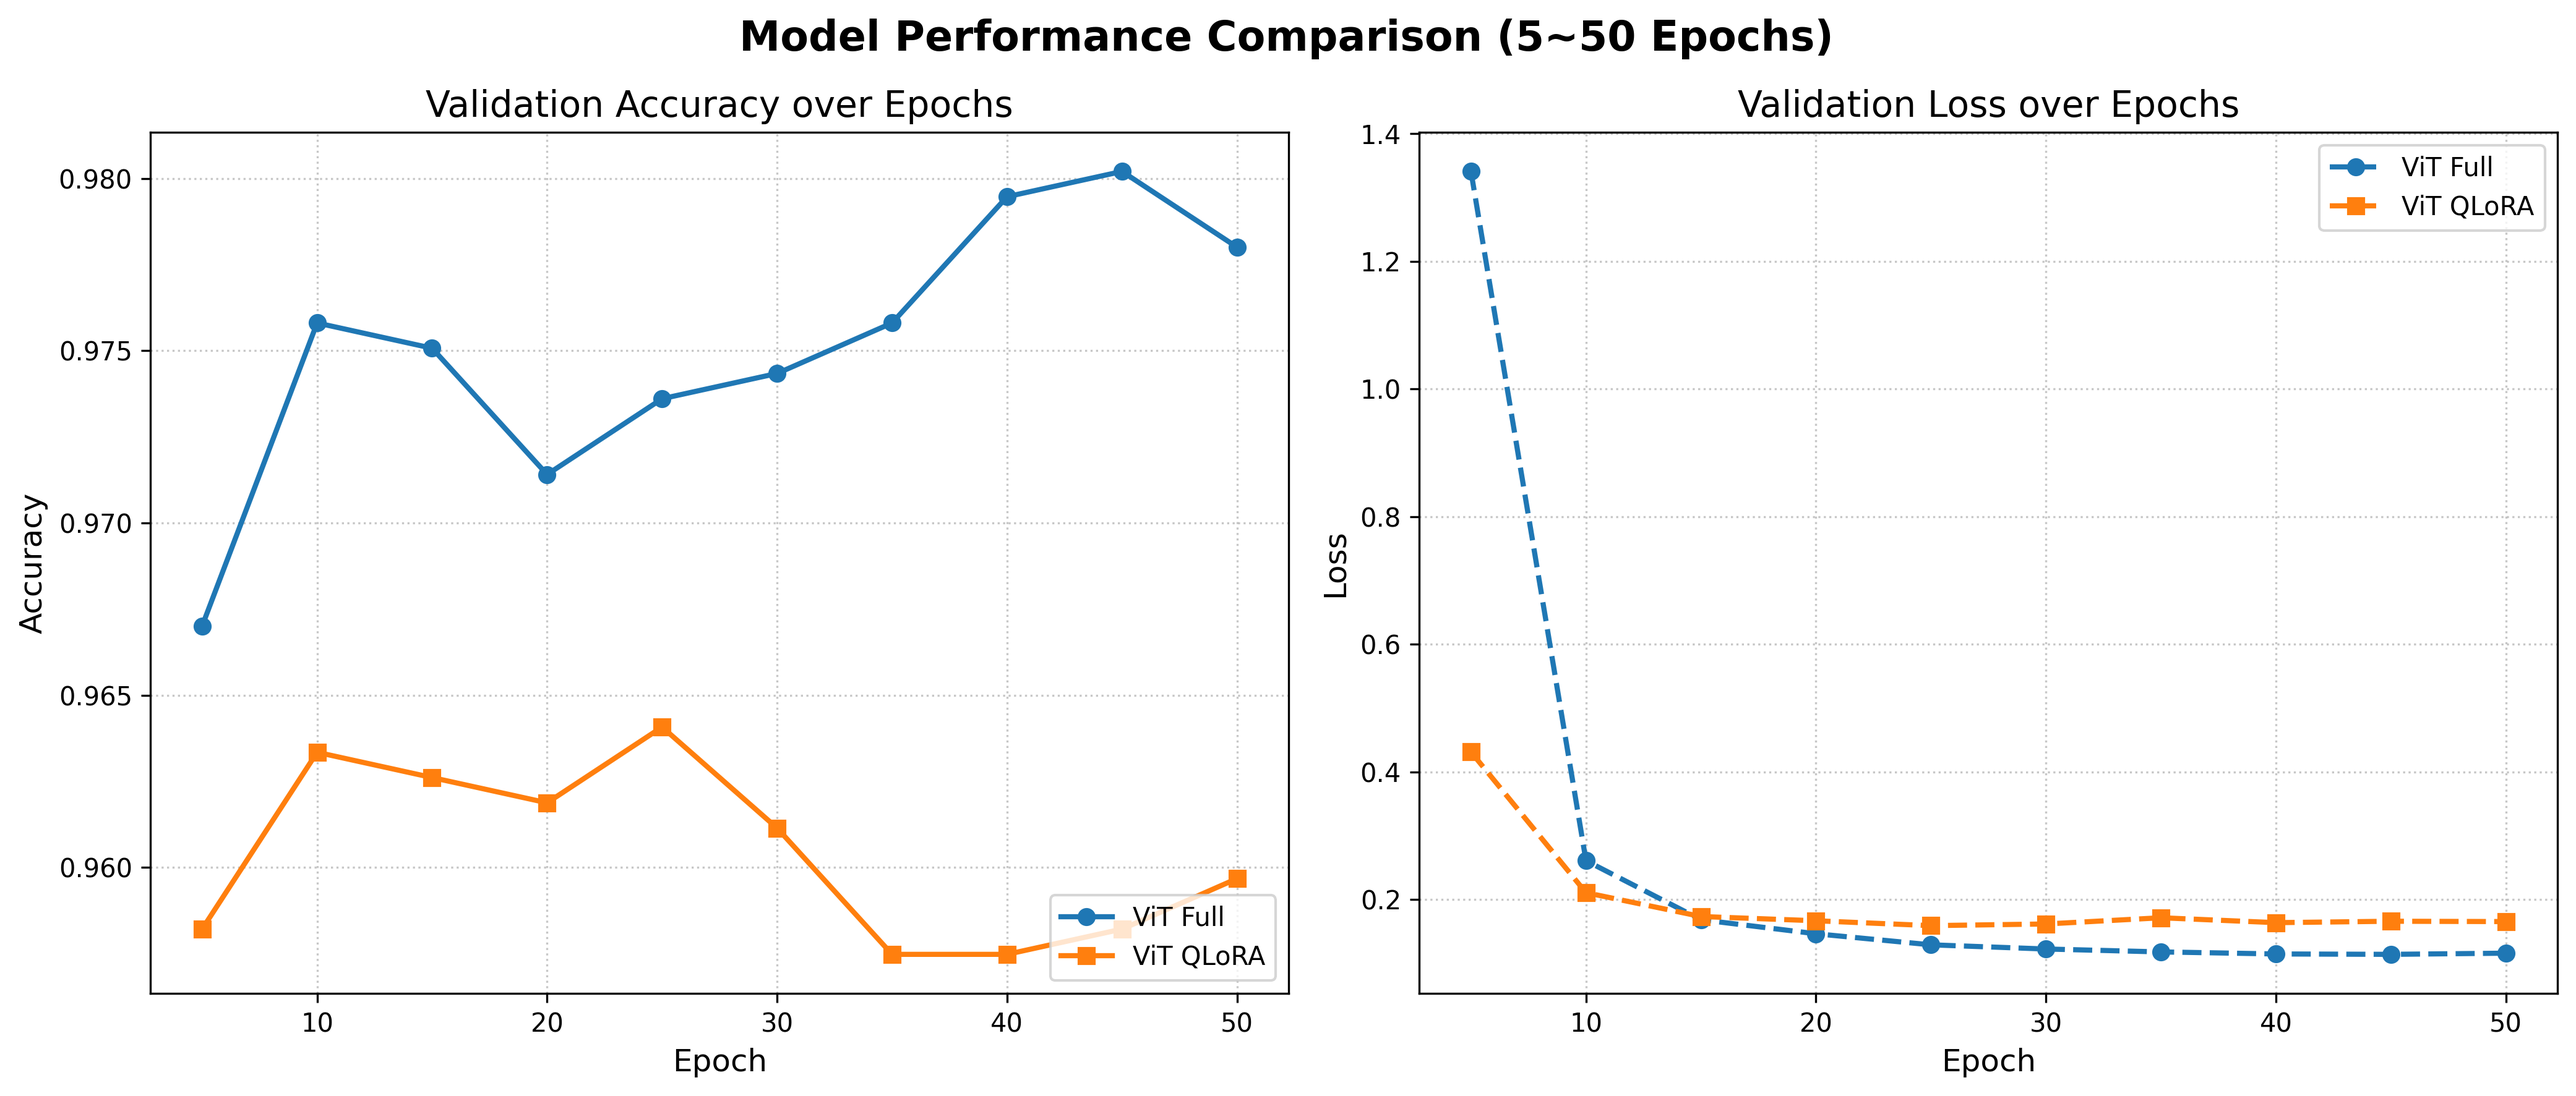
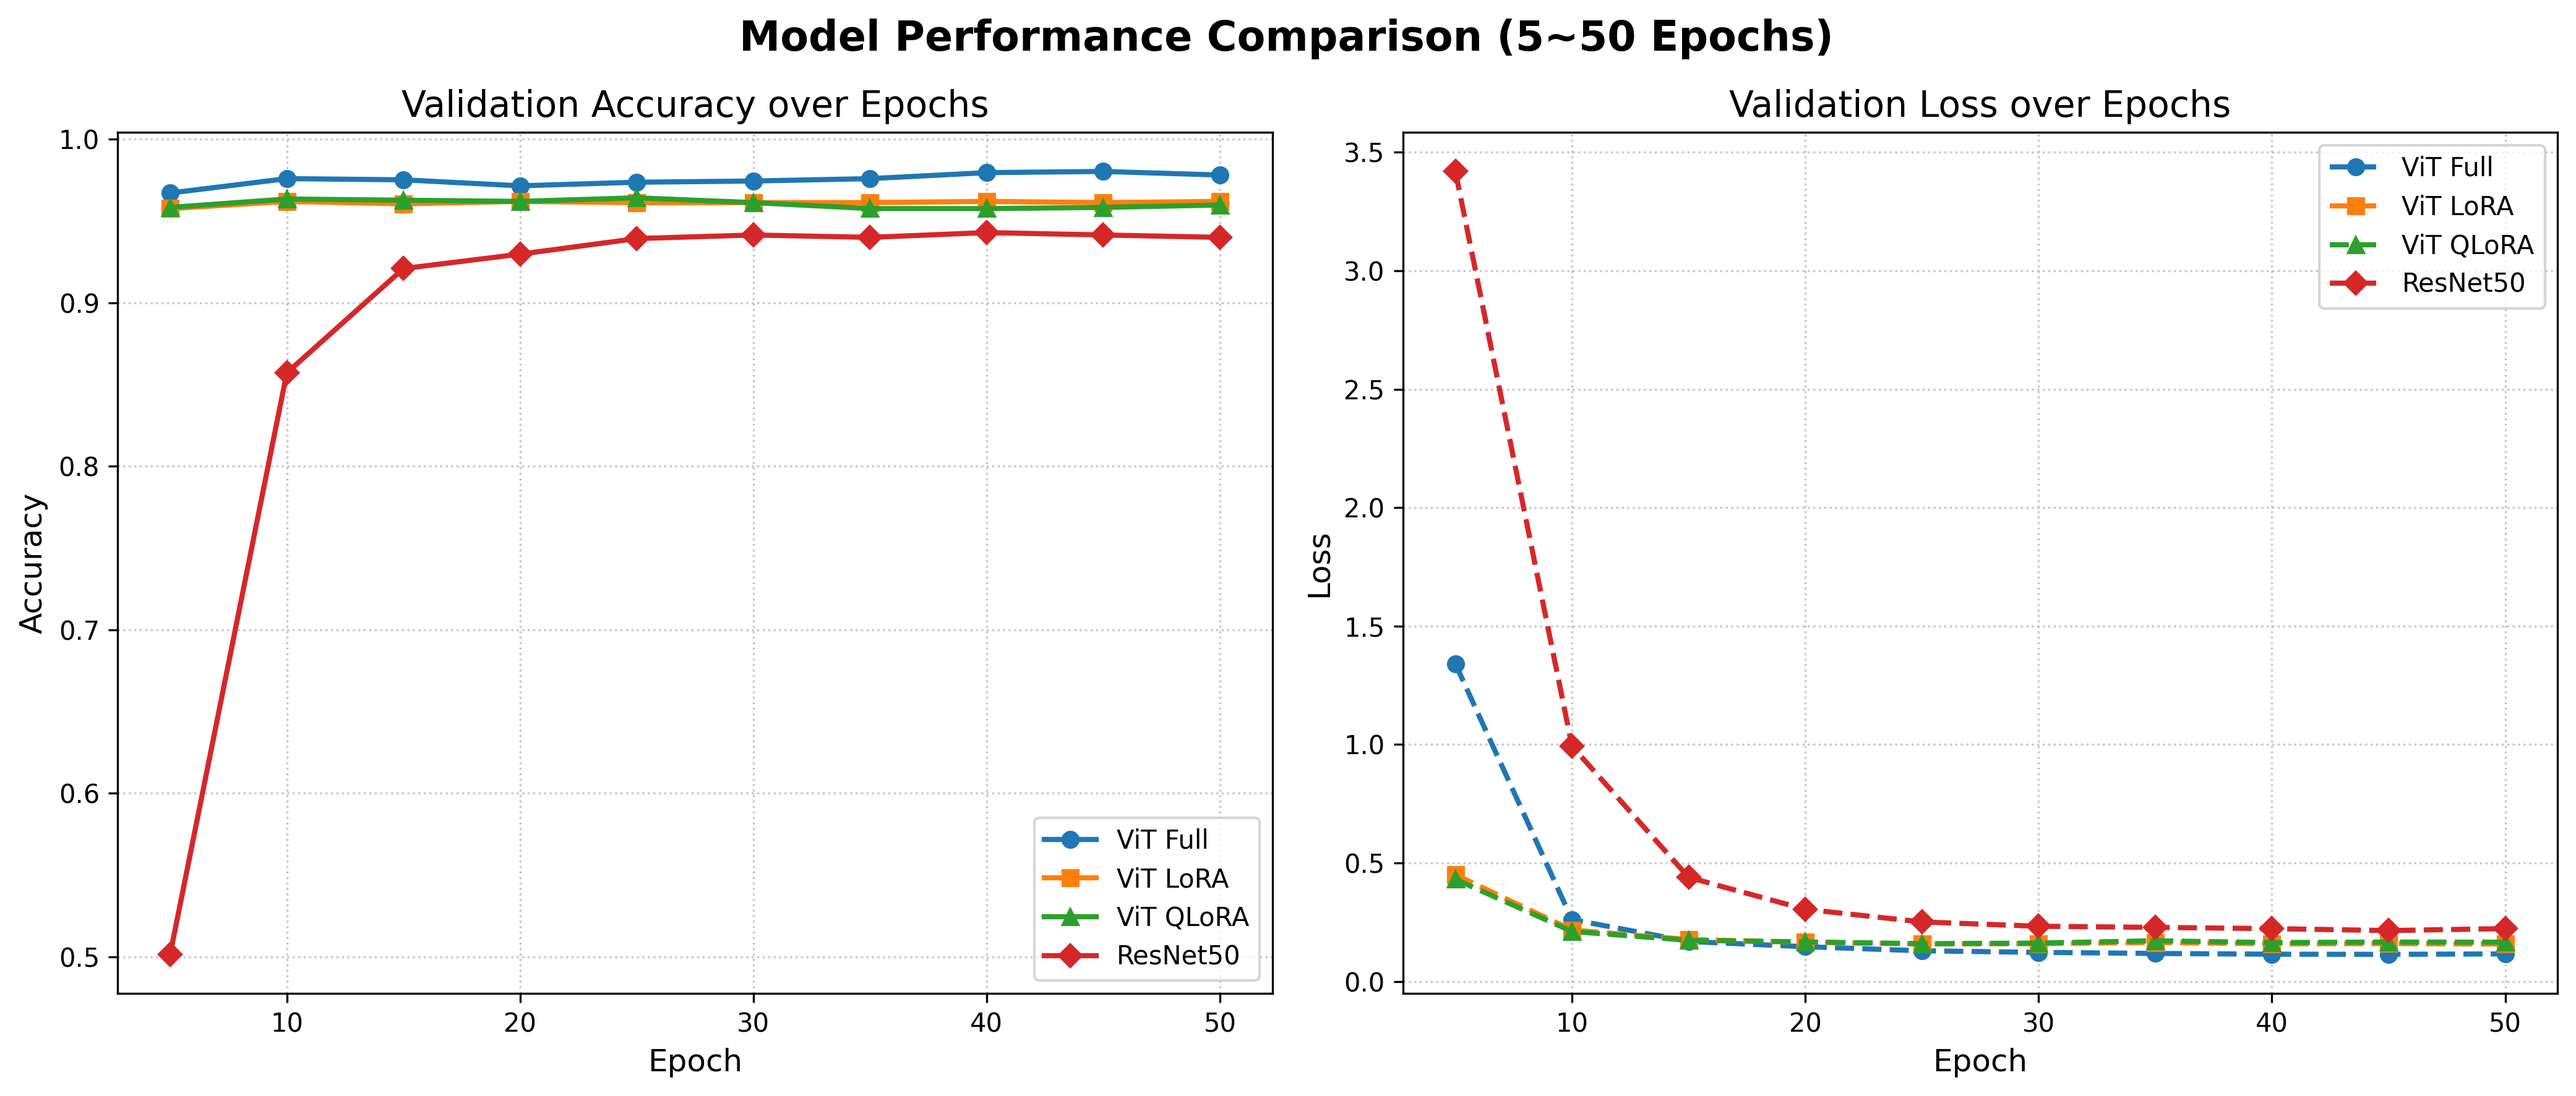
학습 결과를 CSV 파일로 저장, 로그 기록을 통해 성능을 추적

diff --git a/resnet50_finetuning.py b/resnet50_finetuning.py
@@ -1,5 +1,6 @@
 import os
 import torch
+import pandas as pd
 import numpy as np
 import evaluate
 from datasets import load_dataset
@@ -16,7 +17,7 @@ from torchvision.transforms import (
 
 
 # 1. 데이터셋 로드 및 전처리
-dataset_path = "./PokemonData" # 실제 데이터 폴더 경로로 확인 후 사용하세요
+dataset_path = "./PokemonData" 
 dataset = load_dataset("imagefolder", data_dir=dataset_path)
 dataset = dataset["train"].train_test_split(test_size=0.2, seed=42)
 train_ds = dataset["train"]
@@ -56,7 +57,7 @@ test_ds.set_transform(apply_val_transforms)
 
 # 2. ResNet50 모델 로드
 print("ResNet50 모델 로드 중...")
-# 기존 1000개 클래스용 헤드를 버리고 새로운 헤드를 달기 위해 ignore_mismatched_sizes=True 필수
+# 기존 1000개 클래스용 헤드를 버리고 새로운 헤드를 달기 위해 ignore_mismatched_sizes=True
 model = ResNetForImageClassification.from_pretrained(
     model_name,
     num_labels=num_labels,
@@ -85,20 +86,21 @@ def collate_fn(batch):
         "labels": torch.tensor([x["label"] for x in batch])
     }
 
+EXPERIMENT_NAME = "resnet50" 
 training_args = TrainingArguments(
-    output_dir="./resnet50-pokemon-finetuned",
+    output_dir=f"./results_{EXPERIMENT_NAME}",
     remove_unused_columns=False,
-    eval_strategy="epoch",
-    save_strategy="epoch",
-    learning_rate=5e-5, 
+    eval_strategy="epoch",       # 매 에폭마다 평가 수행
+    save_strategy="epoch",       # 매 에폭마다 모델 체크포인트 저장
+    learning_rate=5e-5,          # LoRA/QLoRA는 5e-4, Full/ResNet은 5e-5 권장
     per_device_train_batch_size=32,
     per_device_eval_batch_size=32,
-    num_train_epochs=5,
+    num_train_epochs=50,         # 총 50 Epoch까지 논스톱 학습
     weight_decay=0.01,
-    load_best_model_at_end=True,
+    load_best_model_at_end=True, # 50번 중 가장 성능이 좋았던 모델을 최종적으로 불러옴
     metric_for_best_model="accuracy",
-    logging_dir='./logs_resnet',
-    logging_steps=50,
+    logging_dir=f'./logs_{EXPERIMENT_NAME}',
+    logging_steps=10,
 )
 
 trainer = Trainer(
@@ -111,19 +113,52 @@ trainer = Trainer(
     compute_metrics=compute_metrics,
 )
 
-print("=== 4단계: ResNet50 학습 시작 ===")
+print(f"=== [{EXPERIMENT_NAME}] 50 Epoch 자동 학습 및 평가 시작 ===")
 trainer.train()
 
-print("=== 4단계: Test Set 최종 평가 ===")
-metrics = trainer.evaluate(test_ds)
-print(metrics)
+ 
+# 5. 실험 결과 추출 및 CSV 자동 저장
+ 
+print("=== 학습 내역(History) 추출 및 저장 중 ===")
 
-# 4. 파인튜닝 모델 최종 저장
-save_directory = "./saved_model/exp4_resnet50_finetuned"
+# Trainer의 log_history에는 학습/평가 때마다 기록된 모든 지표가 리스트 형태로 들어있습니다.
+history = trainer.state.log_history
+
+train_logs = []
+eval_logs = []
+
+# 로그 분리 작업
+for log in history:
+    if 'eval_loss' in log:
+        eval_logs.append(log)
+    elif 'loss' in log: # train_loss
+        train_logs.append(log)
+
+# 평가(Eval) 로그를 데이터프레임으로 변환
+df_eval = pd.DataFrame(eval_logs)
+
+# 5, 10, 15 ... 50 에폭의 데이터만 필터링
+# Epoch 값이 소수점으로 떨어질 수 있으므로 반올림 후 필터링
+df_eval['epoch'] = df_eval['epoch'].round(0)
+df_eval_filtered = df_eval[df_eval['epoch'] % 5 == 0].copy()
+
+# 보기 좋게 컬럼 정리
+columns_to_save = ['epoch', 'eval_loss', 'eval_accuracy', 'eval_precision', 'eval_recall']
+df_eval_filtered = df_eval_filtered[columns_to_save]
+
+# CSV 파일로 저장
+csv_filename = f"experiment_results_{EXPERIMENT_NAME}.csv"
+df_eval_filtered.to_csv(csv_filename, index=False)
+
+print(f"✅ 결과가 성공적으로 저장되었습니다: {csv_filename}")
+print(df_eval_filtered.to_string(index=False))
+
+ 
+# 6. 최종 베스트 모델 저장
+ 
+save_directory = f"./saved_model/best_{EXPERIMENT_NAME}"
 os.makedirs(save_directory, exist_ok=True)
 
 model.save_pretrained(save_directory)
 processor.save_pretrained(save_directory)
-
-print(f"=== 4단계 실험 모델 저장 완료 ===")
-print(f"저장 경로: {save_directory}")
+print(f"🏆 가장 성능이 좋았던 베스트 모델이 저장되었습니다: {save_directory}")

diff --git a/lora_finetuning.py b/lora_finetuning.py
@@ -1,5 +1,7 @@
 import os
 import torch
+import pandas as pd
+import json
 import numpy as np
 import evaluate
 from datasets import load_dataset
@@ -65,7 +67,7 @@ model = ViTForImageClassification.from_pretrained(
 
 # 3. LoRA 설정 및 PEFT 모델 래핑
 lora_config = LoraConfig(
-    r=16,                       # LoRA Rank (보통 8이나 16을 많이 씁니다)
+    r=16,                       # LoRA Rank
     lora_alpha=16,              # 스케일링 팩터 (보통 r과 같게 하거나 2배로 설정)
     target_modules=["query", "value"], # ViT 어텐션 레이어의 타겟 모듈 이름
     lora_dropout=0.1,           # 과적합 방지용 드롭아웃
@@ -96,21 +98,21 @@ def collate_fn(batch):
         "labels": torch.tensor([x["label"] for x in batch])
     }
 
-
+EXPERIMENT_NAME = "vit_lora" 
 training_args = TrainingArguments(
-    output_dir="./vit-pokemon-lora",
+    output_dir=f"./results_{EXPERIMENT_NAME}",
     remove_unused_columns=False,
-    eval_strategy="epoch",
-    save_strategy="epoch",
-    learning_rate=5e-4,            
+    eval_strategy="epoch",       # 매 에폭마다 평가 수행
+    save_strategy="epoch",       # 매 에폭마다 모델 체크포인트 저장
+    learning_rate=5e-4,          # LoRA/QLoRA는 5e-4, Full/ResNet은 5e-5 권장
     per_device_train_batch_size=32,
     per_device_eval_batch_size=32,
-    num_train_epochs=5,
+    num_train_epochs=50,         # 총 50 Epoch까지 논스톱 학습
     weight_decay=0.01,
-    load_best_model_at_end=True,
+    load_best_model_at_end=True, # 50번 중 가장 성능이 좋았던 모델을 최종적으로 불러옴
     metric_for_best_model="accuracy",
-    logging_dir='./logs_lora',
-    logging_steps=50,
+    logging_dir=f'./logs_{EXPERIMENT_NAME}',
+    logging_steps=10,
 )
 
 trainer = Trainer(
@@ -123,21 +125,51 @@ trainer = Trainer(
     compute_metrics=compute_metrics,
 )
 
-print("=== 2단계: LoRA 학습 시작 ===")
+print(f"=== [{EXPERIMENT_NAME}] 50 Epoch 자동 학습 및 평가 시작 ===")
 trainer.train()
 
-print("=== 2단계: Test Set 최종 평가 ===")
-metrics = trainer.evaluate(test_ds)
-print(metrics)
+ 
+# 5. 실험 결과 추출 및 CSV 자동 저장
+ 
+print("=== 학습 내역(History) 추출 및 저장 중 ===")
 
+history = trainer.state.log_history
 
-# 5. 파인튜닝 모델(LoRA 가중치) 최종 저장
-save_directory = "./saved_model/exp2_vit_lora"
+train_logs = []
+eval_logs = []
+
+# 로그 분리 작업
+for log in history:
+    if 'eval_loss' in log:
+        eval_logs.append(log)
+    elif 'loss' in log: # train_loss
+        train_logs.append(log)
+
+# 평가(Eval) 로그를 데이터프레임으로 변환
+df_eval = pd.DataFrame(eval_logs)
+
+# 5, 10, 15 ... 50 에폭의 데이터만 필터링
+# Epoch 값이 소수점으로 떨어질 수 있으므로 반올림 후 필터링
+df_eval['epoch'] = df_eval['epoch'].round(0)
+df_eval_filtered = df_eval[df_eval['epoch'] % 5 == 0].copy()
+
+# 보기 좋게 컬럼 정리
+columns_to_save = ['epoch', 'eval_loss', 'eval_accuracy', 'eval_precision', 'eval_recall']
+df_eval_filtered = df_eval_filtered[columns_to_save]
+
+# CSV 파일로 저장
+csv_filename = f"experiment_results_{EXPERIMENT_NAME}.csv"
+df_eval_filtered.to_csv(csv_filename, index=False)
+
+print(f"✅ 결과가 성공적으로 저장되었습니다: {csv_filename}")
+print(df_eval_filtered.to_string(index=False))
+
+ 
+# 6. 최종 베스트 모델 저장
+ 
+save_directory = f"./saved_model/best_{EXPERIMENT_NAME}"
 os.makedirs(save_directory, exist_ok=True)
-
 
 model.save_pretrained(save_directory)
 processor.save_pretrained(save_directory)
-
-print(f"=== 2단계 실험 모델 저장 완료 ===")
-print(f"저장 경로: {save_directory} (용량이 매우 작은지 확인해 보세요!)")
+print(f"🏆 가장 성능이 좋았던 베스트 모델이 저장되었습니다: {save_directory}")

diff --git a/plot_results.py b/plot_results.py
@@ -10,9 +10,9 @@ os.makedirs(save_dir, exist_ok=True)
 # 실험별 라벨 이름과 실제 생성된 CSV 파일 이름 매핑
 experiments = {
     "ViT Full": "experiment_results_vit_full.csv",
-#    "ViT LoRA": "experiment_results_vit_lora.csv",
+    "ViT LoRA": "experiment_results_vit_lora.csv",
     "ViT QLoRA": "experiment_results_vit_qlora.csv",
-#    "ResNet50": "experiment_results_resnet50.csv"
+    "ResNet50": "experiment_results_resnet50.csv"
 }
 
 # 그래프 스타일 설정 (선 색상과 마커 모양)

diff --git a/Full Fine-tuning.py b/Full Fine-tuning.py
@@ -155,7 +155,6 @@ trainer.train()
  
 print("=== 학습 내역(History) 추출 및 저장 중 ===")
 
-# Trainer의 log_history에는 학습/평가 때마다 기록된 모든 지표가 리스트 형태로 들어있습니다.
 history = trainer.state.log_history
 
 train_logs = []

diff --git a/qlora_finetuning.py b/qlora_finetuning.py
@@ -111,8 +111,6 @@ import json
 
  
 # 4. 학습 설정 (Epoch 50 설정 및 로깅 강화)
- 
-# 실험 이름을 지정하세요. (예: "vit_lora", "vit_full", "resnet50" 등)
 EXPERIMENT_NAME = "vit_qlora" 
 
 training_args = TrainingArguments(
